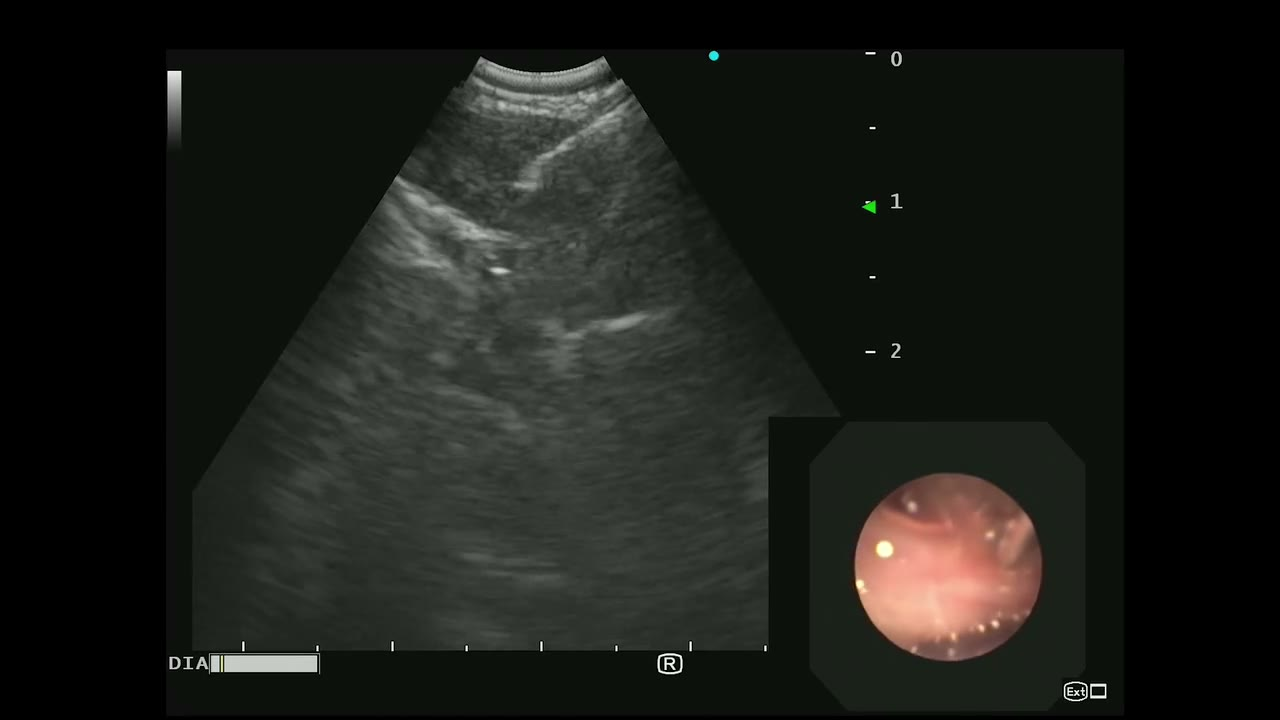
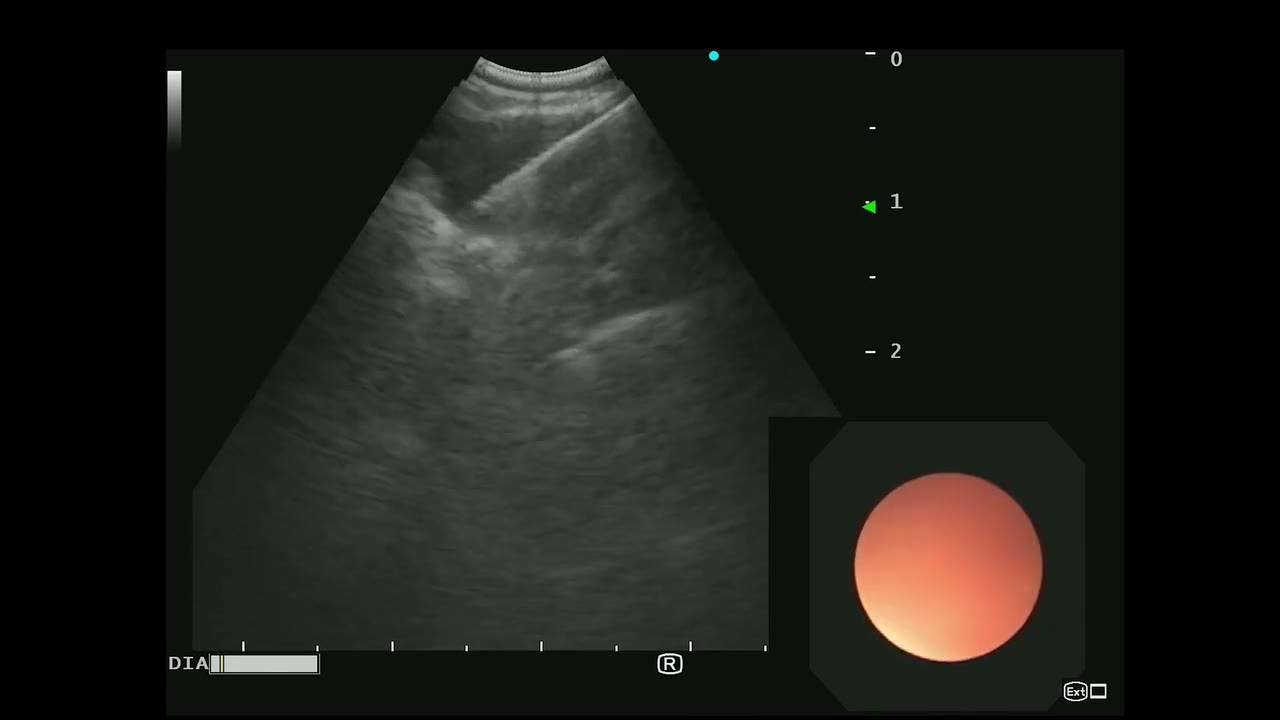
feat(ebus-guided): the needle lesson reads a needle pass on a patient recording
The needle lesson described the needle and its tip in words and on a drawn model. It now has
a step on the owner's own recording of a pass: a 21-gauge needle into a station 11L node,
with suction.

- A new step after the sequence task: play or scrub the clip, open the frame early in the
  pass, and say what the bright line and the brighter point at its end are. The answer is the
  owner's description: the needle, entering from the side of the orientation dot, with the
  stylet at its tip; the stylet is then withdrawn and the tip stays in the plane throughout.
- Marks: the two labelled frames are the ones the owner marked on his slides, matched to the
  clip (2.2 s and 13.9 s). His circle marks the stylet. The needle is marked by a dashed line
  drawn just beside it, fitted to the bright line inside his outline, so the needle itself
  stays in view. He checked the marks as placed on 2026-11-11.
- The frames' buttons are named neutrally, so they do not give the answer before it is asked.
- No statement is made about why the stylet is advanced.
- The lesson host maps a clip figure to its clip. The needle lesson's older, unasked check on
  retraction keeps its wording in the authored unit; its slot now holds this question.

diff --git a/src/features/ebus-guided/__tests__/clip-figure.test.tsx b/src/features/ebus-guided/__tests__/clip-figure.test.tsx
@@ -84,9 +84,10 @@ describe('built clips', () => {
       }
     }
     // Marks placed by the course author stay marked as drafts until the owner has checked them.
-    // The Doppler clip's were checked by him on 2026-11-11.
+    // Both clips' marks were checked by him on 2026-11-11.
     expect(Object.fromEntries(TEACHING_CLIPS.map((clip) => [clip.slug, clip.outlines]))).toEqual({
       'doppler-node-vessels': 'owner-checked',
+      'needle-in-node': 'owner-checked',
     })
   })
 
@@ -203,5 +204,67 @@ describe('in the Doppler lesson', () => {
     )
     fireEvent.click(screen.getByRole('button', { name: 'Check response' }))
     expect(labels()).toBeEnabled()
+  })
+})
+
+describe('in the needle lesson', () => {
+  const lesson = lessonById('needle-safety')!
+  const activityId = () =>
+    document.querySelector('[data-ebus-flow]')!.getAttribute('data-activity-id')
+
+  it('says of the needle recording only what the owner said of it', () => {
+    const clip = teachingClip('needle-in-node')!
+    expect(clip.what).toBe(
+      'A patient recording of a 21-gauge needle pass into a station 11L node, with suction. The small picture at the lower right is the white-light view.',
+    )
+    const marks = (id: string) =>
+      clip.stops.find((entry) => entry.id === id)!.marks.map((mark) => mark.kind)
+    expect(marks('stylet')).toEqual(['needle', 'stylet'])
+    expect(marks('needle')).toEqual(['needle'])
+    // The frames are the two he marked on his slides.
+    expect(clip.built.stops.map((frame) => [frame.id, frame.t])).toEqual([
+      ['stylet', 2.2],
+      ['needle', 13.9],
+    ])
+    // A stop's button does not name what the frame shows before the learner has answered.
+    for (const entry of clip.stops) expect(entry.label).not.toMatch(/stylet|needle/i)
+  })
+
+  it('reads the recording after the sequence, before the needle model', () => {
+    const steps = activitiesForLesson(lesson).map((step) => step.id)
+    expect(steps.slice(0, 5)).toEqual([
+      'needle-safety:first-decision',
+      'needle-safety:sampling-states',
+      'needle-safety:safe-sequence',
+      'needle-safety:needle-on-ultrasound',
+      'needle-assembly-model:needle-components',
+    ])
+    const step = activitiesForLesson(lesson)[3]
+    expect(step).toMatchObject({ figure: 'clip-needle', questions: ['observation'] })
+    render(<LessonHost lesson={lesson} />)
+    for (
+      let guard = 0;
+      guard < 8 && activityId() !== 'needle-safety:needle-on-ultrasound';
+      guard++
+    ) {
+      const move =
+        (document.querySelector('[data-skip-task]') as HTMLButtonElement | null) ??
+        (screen.queryByRole('button', { name: /^Continue without/ }) as HTMLButtonElement | null) ??
+        (document.querySelector('[data-now-primary]') as HTMLButtonElement)
+      fireEvent.click(move)
+    }
+    expect(activityId()).toBe('needle-safety:needle-on-ultrasound')
+    expect(document.querySelector('[data-clip="needle-in-node"]')).toBeVisible()
+    fireEvent.click(stop('stylet'))
+    expect(labels()).toBeDisabled()
+    fireEvent.click(screen.getByLabelText('The needle, with the stylet at its tip'))
+    fireEvent.click(screen.getByRole('button', { name: 'Check response' }))
+    fireEvent.click(labels()!)
+    expect(
+      [...document.querySelectorAll('[data-clip-legend] li')].map((li) => li.textContent),
+    ).toEqual([
+      '1Needle: the bright line beside this mark, entering from the side of the dot',
+      '2Stylet at the needle tip',
+    ])
   })
 })

diff --git a/src/features/ebus-guided/content/clips.ts b/src/features/ebus-guided/content/clips.ts
@@ -133,6 +133,55 @@ export const TEACHING_CLIPS: TeachingClip[] = [
   },
 ]
 
+/** Positions on the needle clip's 1280 x 720 frame, as fractions of it. */
+const n = (x: number, y: number): [number, number] => [x / 1280, y / 720]
+
+TEACHING_CLIPS.push({
+  slug: 'needle-in-node',
+  title: 'A needle pass on ultrasound',
+  what: 'A patient recording of a 21-gauge needle pass into a station 11L node, with suction. The small picture at the lower right is the white-light view.',
+  // Placed from the owner's two marked slides (2026-11-11), each matched to its frame of the clip
+  // (2.2 s and 13.9 s): his circle on the stylet, and the needle traced inside his outline. The
+  // needle marks are drawn just beside the needle so the needle itself stays in view. He checked
+  // them as placed here on 2026-11-11.
+  outlines: 'owner-checked',
+  stops: [
+    {
+      id: 'stylet',
+      label: 'A frame early in the pass',
+      marks: [
+        {
+          label: 'Needle: the bright line beside this mark, entering from the side of the dot',
+          kind: 'needle',
+          shape: { type: 'line', points: [n(604.6, 100.5), n(524.6, 162.5)] },
+        },
+        {
+          label: 'Stylet at the needle tip',
+          kind: 'stylet',
+          shape: {
+            type: 'ellipse',
+            cx: 520.5 / 1280,
+            cy: 182.9 / 720,
+            rx: 27 / 1280,
+            ry: 27 / 720,
+          },
+        },
+      ],
+    },
+    {
+      id: 'needle',
+      label: 'A frame later in the pass',
+      marks: [
+        {
+          label: 'Needle: the bright line beside this mark',
+          kind: 'needle',
+          shape: { type: 'line', points: [n(609, 90), n(475, 186)] },
+        },
+      ],
+    },
+  ],
+})
+
 export interface ResolvedClip extends TeachingClip {
   built: BuiltClip
 }

diff --git a/src/features/ebus-guided/components/LessonHost.tsx b/src/features/ebus-guided/components/LessonHost.tsx
@@ -430,7 +430,13 @@ function LessonSession({
   /** The lesson's figure, when this activity shows one (EBUS-PRE-REVIEW-04: none for four lessons). */
   const figure = current.image === 'diagram' ? (current.figure ?? content.diagram) : undefined
   /** A step that reads a patient recording shows it, whatever lab the lesson ran before it. */
-  const clipStep = figure === 'clip-doppler'
+  const clipSlug =
+    figure === 'clip-doppler'
+      ? 'doppler-node-vessels'
+      : figure === 'clip-needle'
+        ? 'needle-in-node'
+        : undefined
+  const clipStep = !!clipSlug
   const showDemo = !runtimeActivity && !reviewId && current.image === 'demonstration'
   /*
    * A briefing with a live example shows a short lead, then the three views, then the rest of the
@@ -939,10 +945,11 @@ function LessonSession({
                 <NodeFeatureAtlas />
               ) : figure === 'node-reading' ? (
                 <NodeFeatureReading />
-              ) : figure === 'clip-doppler' ? (
+              ) : clipSlug ? (
                 // Labels on its paused frame open once the step's question is answered or explained.
                 <ClipFigure
-                  clip="doppler-node-vessels"
+                  key={clipSlug}
+                  clip={clipSlug}
                   unlocked={!!committed || !!(question && explanationOpen[question.id])}
                 />
               ) : figure === 'station-map' ||
@@ -959,7 +966,7 @@ function LessonSession({
                   }
                   station={content.station}
                 />
-              ) : figure ? (
+              ) : figure === 'ultrasound' || figure === 'needle' ? (
                 <TeachingDiagram kind={figure} />
               ) : null}
             </div>

diff --git a/src/features/ebus-guided/__tests__/pre-review-04.test.tsx b/src/features/ebus-guided/__tests__/pre-review-04.test.tsx
@@ -9,7 +9,13 @@ import { PracticePage } from '../components/PracticePage'
 import { SequenceActivity } from '../components/SequenceActivity'
 import { ExaminationWorkspace } from '../components/ExaminationWorkspace'
 import { TeachingDiagram } from '../components/Diagram'
-import { CHAPTERS, CONTENT_LESSONS, LESSONS, lessonById } from '../content/curriculum'
+import {
+  CHAPTERS,
+  CONTENT_LESSONS,
+  HISTORICAL_IMAGE_QUESTIONS,
+  LESSONS,
+  lessonById,
+} from '../content/curriculum'
 import { openUnitAcquisition } from '../testing/unit-acquisition'
 import { ACTIVITY_FLOWS, activitiesForLesson } from '../content/stage'
 import { GLOSSARY, glossaryForLesson } from '../content/glossary'
@@ -526,7 +532,10 @@ describe('wording corrections keep every key (L1-11, L4-5, L20-4)', () => {
   })
   it('L20-4 says what an exposed tip can harm, as the lesson’s own takeaway does', () => {
     const entry = lesson('needle-safety')
-    const keyed = entry.observation.choices.find((choice) => choice.correct)!
+    // The lesson reads a patient recording in this slot since 2026-11-11; the check's wording
+    // is kept in the authored unit, which is where it is read here.
+    const authored = HISTORICAL_IMAGE_QUESTIONS.find((item) => item.id === 'needle-observe')!
+    const keyed = authored.choices.find((choice) => choice.correct)!
     expect(keyed.text).toBe('An exposed tip can harm the patient or the equipment')
     expect(entry.takeaways).toContain('Retraction checks protect the patient and equipment.')
     expect(keyed.id).toBe('b')

diff --git a/src/features/ebus-guided/content/image-items.ts b/src/features/ebus-guided/content/image-items.ts
@@ -63,6 +63,28 @@ export const IMAGE_INTERPRETATIONS: Record<string, Question> = {
     ),
     imagePolicy: 'none',
   },
+  // Asked on the owner's patient recording of a needle pass (2026-11-11): station 11L, a
+  // 21-gauge needle, suction; the stylet is advanced and withdrawn early in the pass and the tip
+  // never leaves the plane. All of that is his description of his recording.
+  'needle-safety': {
+    ...question(
+      'needle-patient-pass',
+      'On the frame early in the pass, a bright line runs into the node from the side of the orientation dot and ends in a brighter point. What are they?',
+      [
+        'The needle, with the stylet at its tip',
+        'The bright line is the needle, entering from the side of the orientation dot. The brighter point at its end is the stylet, which is advanced and then withdrawn in the next moments of the recording. The tip stays in the plane for the whole pass.',
+      ],
+      [
+        'The needle shaft, with its tip out of the plane',
+        'The line ends inside the node at a bright point that moves with it, so the tip is in the plane. In this recording it never leaves it.',
+      ],
+      [
+        'A vessel wall, with calcification at its edge',
+        'A vessel wall does not arrive from the side of the orientation dot and lengthen as the pass begins. This line is the needle, and the point at its end is the stylet.',
+      ],
+    ),
+    imagePolicy: 'none',
+  },
   capture: {
     ...question(
       'capture-observe-v2',

diff --git a/src/features/ebus-guided/content/stage.ts b/src/features/ebus-guided/content/stage.ts
@@ -560,6 +560,20 @@ export const ACTIVITY_FLOWS: Record<string, ActivitySpec[]> = {
     predict('first-decision', 'Decide what to do when the tip is lost'),
     brief('sampling-states', 'Follow the sampling sequence', 'sampling'),
     apply('safe-sequence', 'Link needle actions to current guidance', 'sequence', [], 'sampling'),
+    // The owner's patient recording of a pass (2026-11-11): what the needle and the stylet look
+    // like on ultrasound, read on a paused frame before anything is labelled.
+    {
+      ...decide(
+        'needle-on-ultrasound',
+        'Read the needle on a patient recording',
+        ['observation'],
+        'sampling',
+        'diagram',
+      ),
+      figure: 'clip-needle',
+      instruction:
+        'Play the recording, then open the frame early in the pass and answer. Its labels open after you answer.',
+    },
     {
       ...brief('needle-components', 'Relate sheath, needle, stylet and outlet', 'briefing'),
       from: 'needle-assembly-model',

diff --git a/src/features/ebus-guided/content/types.ts b/src/features/ebus-guided/content/types.ts
@@ -126,6 +126,8 @@ export interface Lesson {
     | 'node-reading'
     /** A patient recording read on its paused frames (2026-11-11): colour Doppler around a node. */
     | 'clip-doppler'
+    /** The same, for a needle pass: the needle and the stylet at its tip. */
+    | 'clip-needle'
   /** Optional refreshers in separate courses, linked from the recall (L1-3). Never required. */
   refreshers?: { href: string; label: string; course: string }[]
   takeaways: string[]

diff --git a/src/features/ebus-guided/content/clips.generated.ts b/src/features/ebus-guided/content/clips.generated.ts
@@ -60,12 +60,12 @@ export const BUILT_CLIPS: BuiltClip[] = [
     stops: [
       {
         id: 'stylet',
-        t: 1.8,
+        t: 2.2,
         image: '/ebus-guided/clips/needle-in-node-stylet.jpg',
       },
       {
         id: 'needle',
-        t: 2.6,
+        t: 13.9,
         image: '/ebus-guided/clips/needle-in-node-needle.jpg',
       },
     ],
